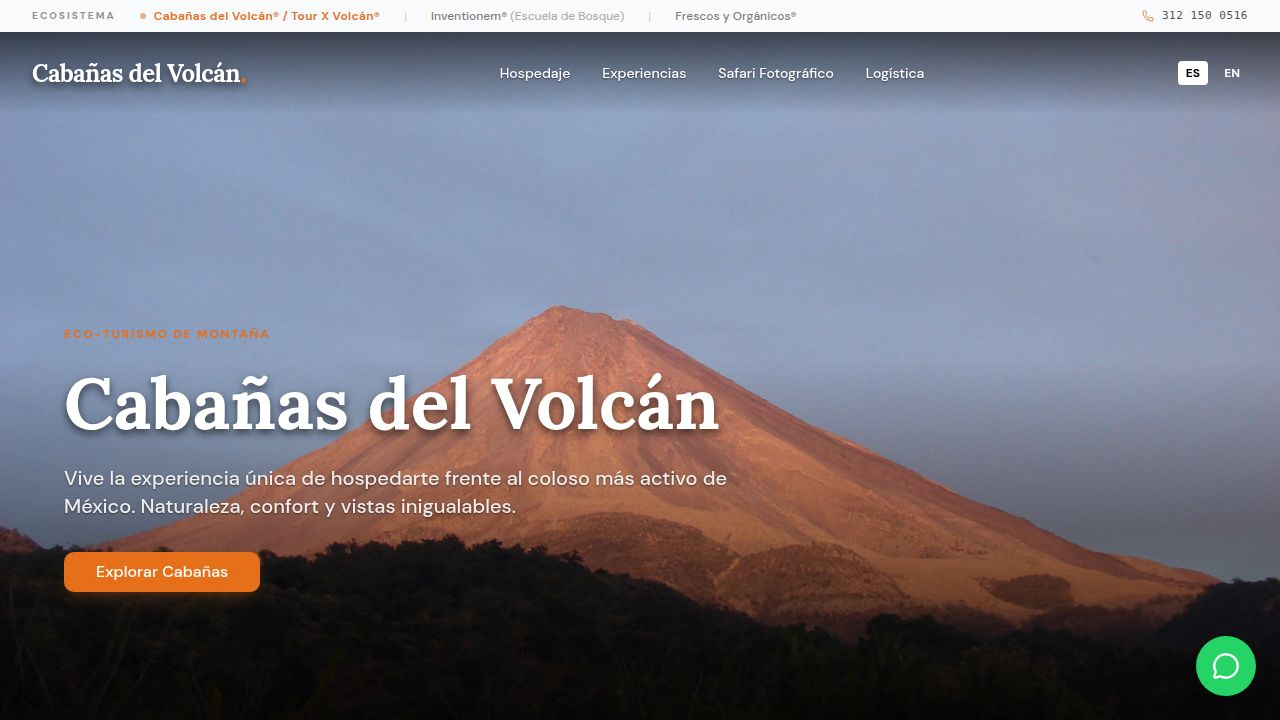
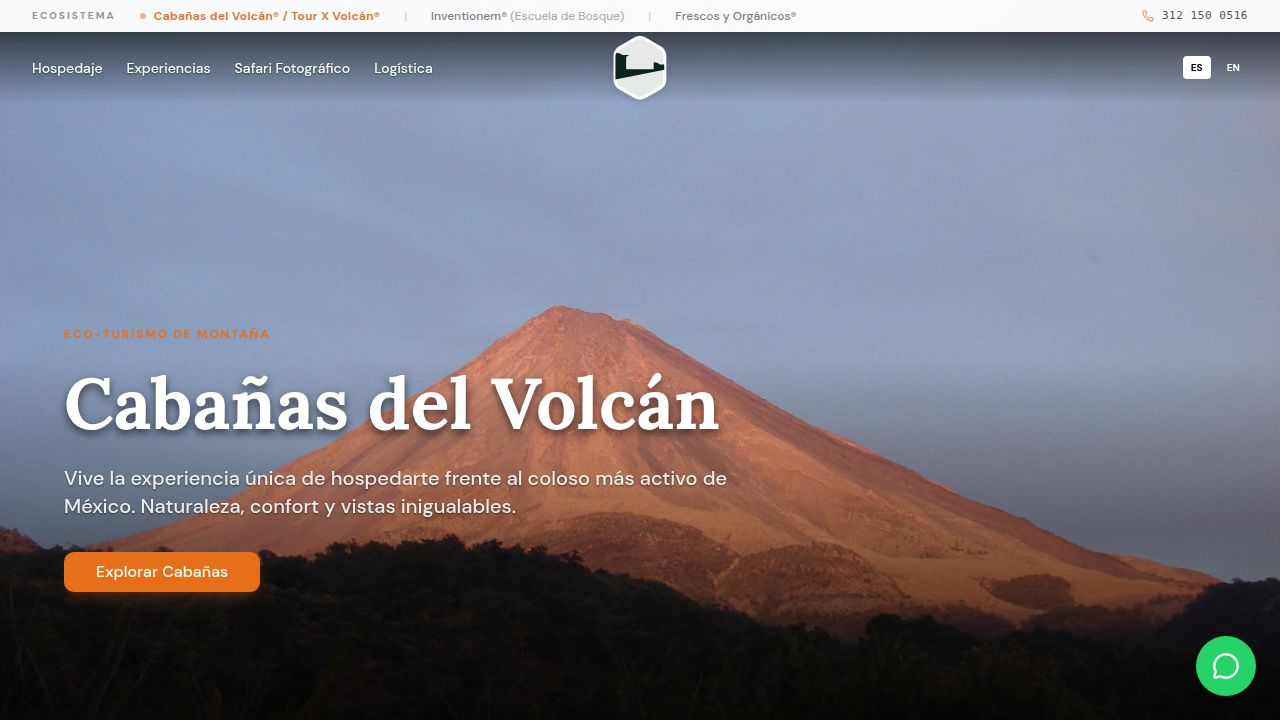
Remove unnecessary text and branding from the website header
Removes the "Cabañas del Volcán" text and its associated SVG logo from the header component in client/src/components/layout/Header.tsx.

Replit-Commit-Author: Agent
Replit-Commit-Session-Id: 59ebc59c-7478-4caa-be7a-8f2eb2f94f3c
Replit-Commit-Checkpoint-Type: full_checkpoint
Replit-Commit-Event-Id: 7be742be-c1ed-4170-aa5a-91a779432212
Replit-Commit-Screenshot-Url: https://storage.googleapis.com/screenshot-production-us-central1/0442a91b-0f88-43b3-b644-6983b3f8b2ed/59ebc59c-7478-4caa-be7a-8f2eb2f94f3c/pnXa1eP
Replit-Helium-Checkpoint-Created: true

diff --git a/client/src/components/layout/Header.tsx b/client/src/components/layout/Header.tsx
@@ -71,20 +71,14 @@ export function Header() {
           {/* Center: Logo */}
           <div className="absolute left-1/2 top-1/2 -translate-x-1/2 -translate-y-1/2 flex flex-col items-center transition-all duration-500">
             <Link href="/" className="flex flex-col items-center group">
-              <div className={`transition-all duration-500 flex items-center justify-center ${isScrolled ? 'w-10 h-10' : 'w-20 h-20 mb-1'}`}>
+              <div className={`transition-all duration-500 flex items-center justify-center ${isScrolled ? 'w-10 h-10' : 'w-20 h-20'}`}>
                 <svg viewBox="0 0 112 130" fill="none" xmlns="http://www.w3.org/2000/svg" className="w-full h-full drop-shadow-md">
                   <path d="M55.9053 13C59.0904 13 62.2842 13.8207 65.1396 15.4697L89.5752 29.5762C95.2767 32.868 98.8105 38.9894 98.8105 45.5723V83.7598C98.8104 90.3424 95.2771 96.4644 89.5752 99.7559L65.1406 113.863C59.4399 117.155 52.3704 117.155 46.6699 113.863L22.2354 99.7559C16.5335 96.4644 13.0001 90.3424 13 83.7598V45.5723C13 38.9893 16.5338 32.868 22.2354 29.5762L46.6709 15.4688C49.5264 13.8197 52.7203 13 55.9053 13Z" fill="white"/>
                   <path fillRule="evenodd" clipRule="evenodd" d="M95.7128 67.9699C95.7121 67.1435 95.5904 66.3184 95.3511 65.515L95.4751 60.2373L95.4721 59.8829L95.2231 59.6386C94.9193 59.3401 94.8172 59.2407 88.0516 59.3654L88.0118 59.3664C85.6666 56.9507 82.4212 55.5725 79.0486 55.5725H78.2159L78.2402 66.8383L33.416 67.0511L33.537 46.5778L38.6984 43.8833H27.3578C24.6539 41.674 21.3112 40.3826 17.8335 40.1944C17.5396 40.1789 16.0458 44.5863 16.0458 44.5863V83.7598C16.0458 89.2526 19.0009 94.3711" fill="#0B251C" />
-                  {/* Rest of SVG paths simplified for the example, but the logic remains */}
                   <path d="M55.905 17.8483C53.5499 17.8483 51.1947 18.4546 49.0945 19.6676L24.6592 33.7752C20.4579 36.2008 17.8484 40.7209 17.8484 45.5718V83.7597C17.8484 88.6106 20.4579 93.1311 24.6592 95.5563L49.0945 109.664C53.2946 112.09 58.5151 112.09 62.7158 109.664L87.1511 95.5563C91.3525 93.1311 93.9619 88.6106 93.9619 83.7597V45.5718C93.9619 40.7209 91.3525 36.2008 87.1511 33.7752L62.7158 19.6676C60.6156 18.4546 58.2605 17.8483 55.905 17.8483Z" fill="#0B251C" opacity="0.1" />
                   <path d="M31.9833 74.4949C32.7286 74.4949 33.3173 74.6923 33.8272 75.1274L33.8661 75.0879V73.862C33.3565 73.49 32.7286 73.3477 31.9833 73.3477C30.3834 73.3477 29.081 74.6451 29.081 76.235C29.081 77.8246 30.3834 79.122 31.9833 79.122C32.7286 79.122 33.3565 78.9794 33.8661 78.6078V77.3819L33.8272 77.3423C33.3173 77.7774 32.7286 77.9749 31.9833 77.9749C31.0423 77.9749 30.297 77.1841 30.297 76.235C30.297 75.2857 31.0423 74.4949 31.9833 74.4949Z" fill="#0B251C"/>
                 </svg>
               </div>
-              <span className={`font-serif font-bold tracking-tight transition-all duration-500 whitespace-nowrap ${
-                isScrolled ? 'opacity-0 h-0 scale-0' : 'text-xl text-white text-shadow-md'
-              }`}>
-                Cabañas del Volcán
-              </span>
             </Link>
           </div>
 
